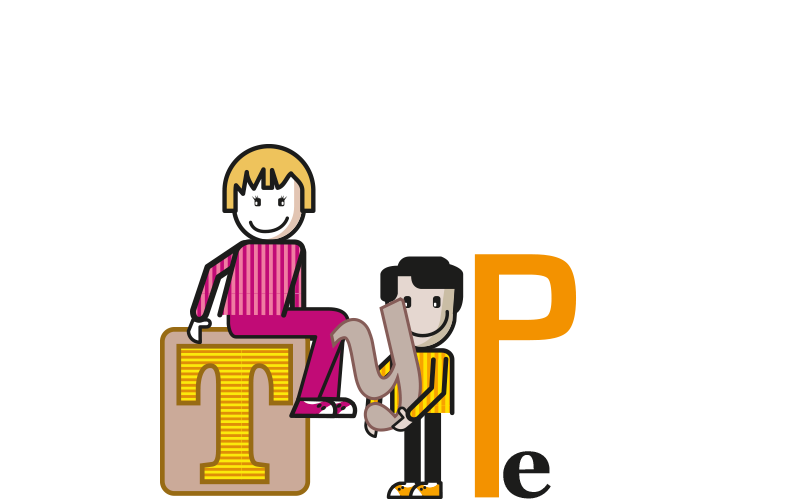
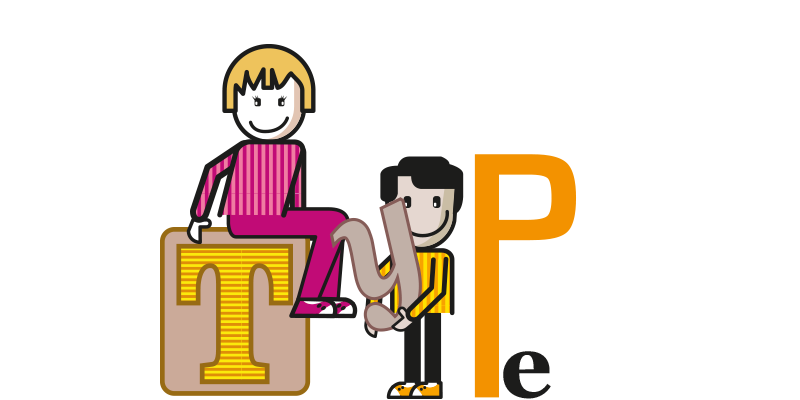
Mer og endret innhold. Nytt bilde. Lavere bilder

Changed region(s): [[0.1875, 0.09, 0.7188, 1.0], [0.5938, 0.87, 0.6875, 1.0], [0.4688, 0.93, 0.5625, 1.0]]

diff --git a/index.html b/index.html
@@ -36,6 +36,9 @@
 	            </li>
 	            <ul>
 	            	<li>
+	            	    <a href="#fellesfag">Fellesfag</a>
+	            	</li>
+	            	<li>
 	            	    <a href="#medieteori">Medieteori</a>
 	            	</li>
 	            	<li>
@@ -82,22 +85,25 @@
 
 	<header id="header">
 		<div>
-			<h4>STMK - Studieforberedende linje med medier og kommunikasjon. <strong class="small">Vest-Agder høsten 2016</strong></h4>
+			<h4>STMK - Studieforberedende utdanningsprogram med medier og kommunikasjon <strong class="small">- Vest-Agder høsten 2016</strong></h4>
 		</div>
 	</header>
 	
 	<section id="smart-valg" class="fill-screen">
 		<div class="section-image-container">
 			<div class="section-image wow fadeInUp">
-				<img src="img/STMK_Figur_02.png" alt="" class="img-responsive">
+				<img src="img/STMK_Forsidefigur_02.png" alt="" class="img-responsive">
 			</div>
 		</div>
 		<div class="container">
 			<div class="col-sm-8 col-sm-offset-2 wow fadeInUp">
 				<h1>Smart vei til arbeidsliv og studier</h1>
-				<p class="lead">Høsten 2016 lanseres en spennende videregående utdanningslinje i Vest-Agder. Linja har foreløpig fått navnet Studiespesialisering med medier og kommunikasjon, forkortet til STMK. STMK henter det beste fra ordinær studiespesialisering og den yrkesforberedende linja Medier og kommunikasjon, som fases ut samme høst.</p> 
-				<p>Arbeidsplasser innen blant annet medier, ledelse, markedsføring, salg, service og administrasjon innebærer utstrakt bruk av kommunikasjonsverktøy. STMK gir innføring i disse verktøyene og knytter dem sammen med øvrige allmenndannende fag. </p> 
+				
+				<p class="lead">Høsten 2016 lanseres en spennende videregående utdanningslinje i Vest-Agder. Linja har foreløpig fått navnet <strong>Studieforberedende utdanningsprogram med medier og kommunikasjon</strong>, forkortet til STMK. STMK henter det beste fra ordinær studiespesialisering og den yrkesforberedende linja Medier og kommunikasjon, som  fases ut samme høst. </p>
+				<p>Arbeidsplasser innen blant annet medier, ledelse, markedsføring, salg, service og administrasjon innebærer utstrakt bruk av kommunikasjonsverktøy. STMK gir innføring  i disse verktøyene og knytter dem sammen med øvrige allmenndannende fag.  </p>
 				<p>Alle tre årstrinn har fem uketimer i mediefagene, samt fem tilleggstimer som i stor grad skal være praktisk rettede.</p>
+				<p>De to siste årene inneholder i tillegg valgfrie programfag som også har mediefaglig innhold.</p>
+
 			</div>
 		</div>
 	</section>
@@ -111,7 +117,22 @@
 		<div class="container">
 			<div class="col-sm-8 col-sm-offset-2 wow fadeInUp">
 				<h2>Hva får du  jobbe med?</h2>
-				<p>Selv om fagplanene ikke er ferdig utviklet, vil du garantert få innsikt og trening i emnene beskrevet her. Du møter erfarne, oppdaterte faglærere innen ulike områder, og får anledning til å produsere egne medieprodukter og testet ulike formidlingsteknikker.</p>
+				<p>Selv om læreplanene ikke er ferdig utviklet, vil du garantert få innsikt og trening i emnene beskrevet her. Du møter erfarne, oppdaterte faglærere innen ulike områder, og får anledning til å produsere egne medieprodukter og testet ulike formidlingsteknikker.</p>
+			</div>
+		</div>
+	</section>
+
+	<section id="fellesfag">
+		<div class="section-image-container">
+			<div class="section-image wow fadeInUp">
+				<img src="img/Blackboard.png" alt="" class="img-responsive">
+			</div>
+		</div>
+		<div class="container">
+			<div class="col-sm-8 col-sm-offset-2 wow fadeInUp">
+				<h2>Fellesfag og valgfag</h2>
+				<p>De tradisjonelle skolefagene inngår selvfølgelig i dette fullferdige studieforberedende tilbudet. Dessuten kan elevene velge andre fordypningsfag, både innen medier og kommunikasjon og andre retninger.</p>
+				<p> Les mer om de foreløpige læreplanene her: <a href="#">>> Foreløpig studieinnhold</a></p>
 			</div>
 		</div>
 	</section>
@@ -293,7 +314,8 @@
 		<div class="container">
 			<div class="col-sm-8 col-sm-offset-2 wow fadeInUp">
 				<h2>Vil du vite mer?</h2>
-				<p></p>
+				<p>Studieforberedende utdanningsprogram med medier og kommunikasjon skal innføres fra høsten 2016. Det arbeides nå med å utvikle læreplanene, som skal være ferdige i mars 2016.</p>
+				<p><a href="http://www.udir.no/Regelverk/Horinger/Ferdigbehandlede-saker/Horing-om-omgjoring-av-utdanningsprogram-for-medier-og-kommunikasjon-1/" target="blank">Du kan lese mer om det nye utdanningspgrogrammet her.</a></p>
 			</div>
 		</div>
 	</section>
